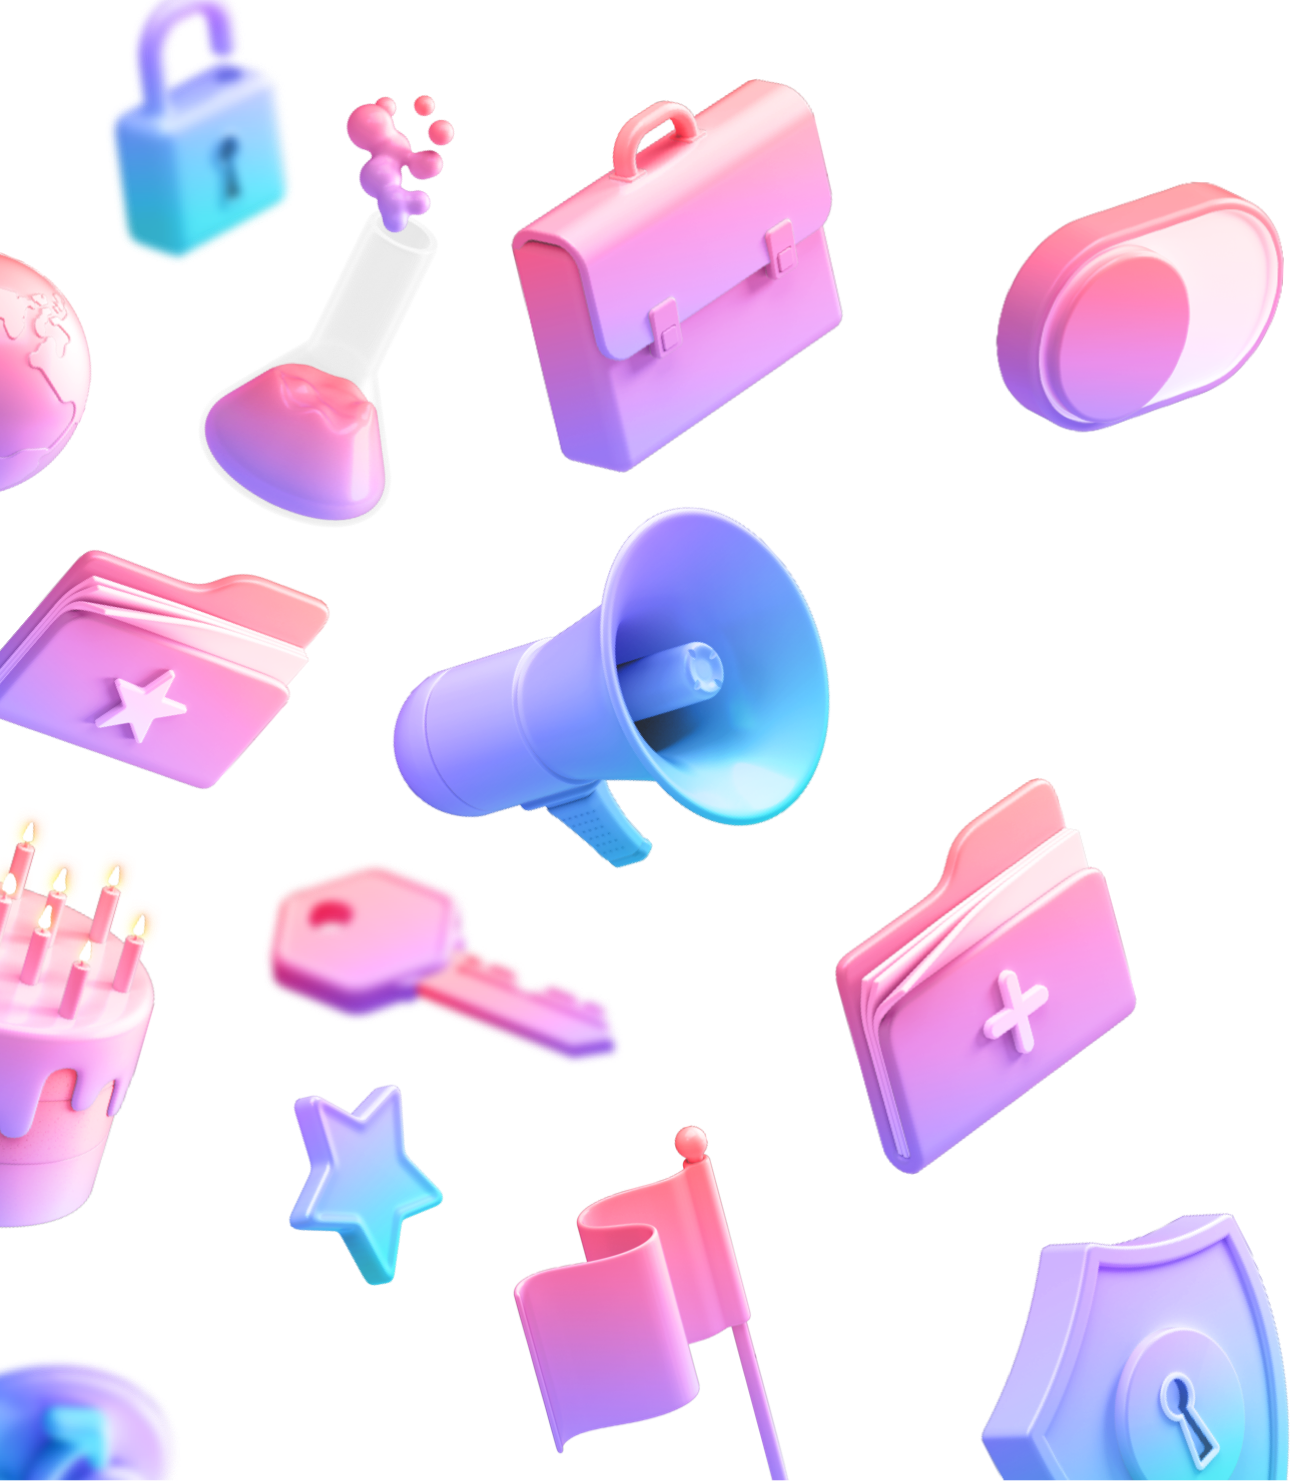
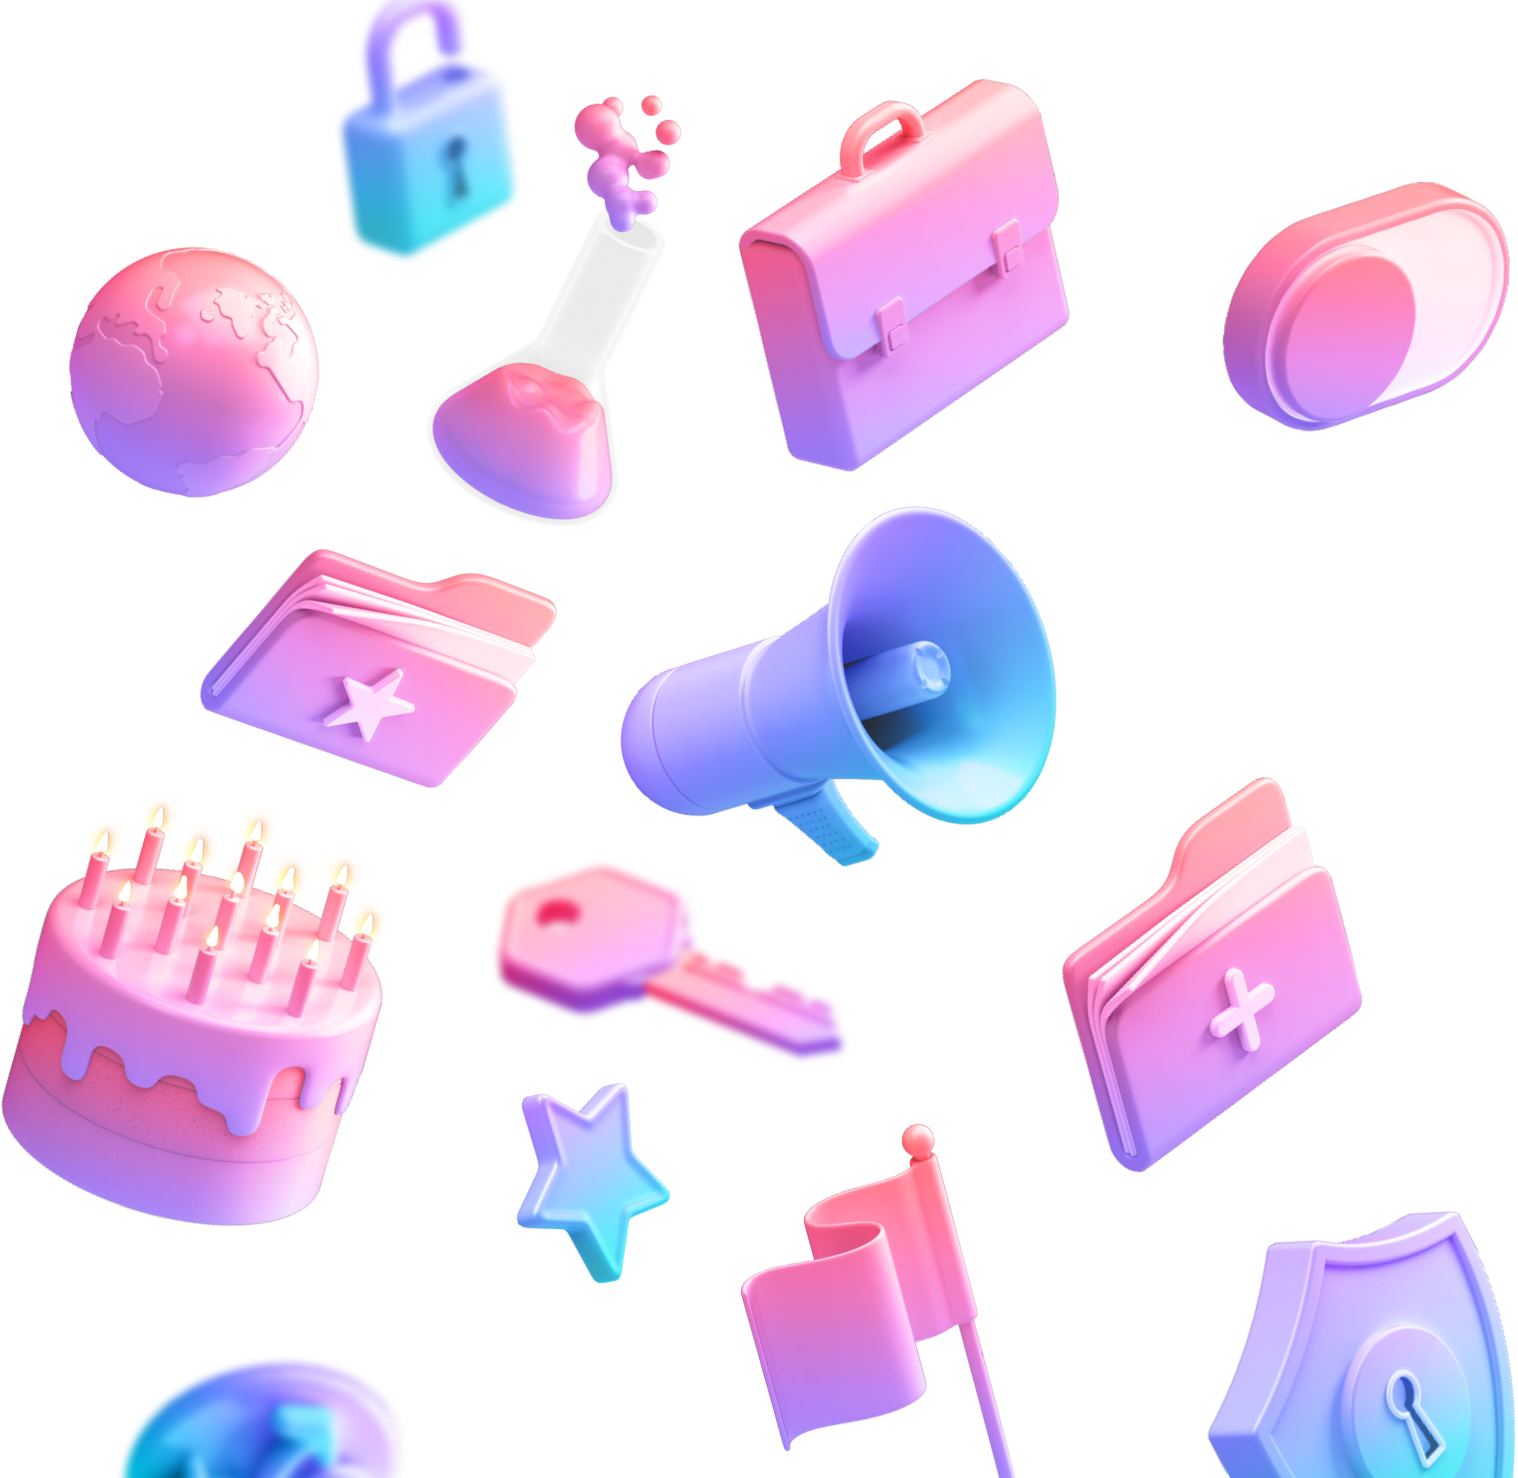
Visual improvements

diff --git a/components/drive/Container6.js b/components/drive/Container6.js
@@ -28,8 +28,8 @@ const Container6 = ({ id, descriptions }) => {
                     </p>
 
                     <Link href="/pricing">
-                        <a className={`flex flex-row w-auto items-center sm:my-6 lg:text-base lg:mt-12 lg:mb-16 xl:my-24`}>
-                            <p className={`${styles.margin} ${styles.link} sm:text-lg mr-2`}>Check out plans for teams</p>
+                        <a className={`flex flex-row w-auto items-center sm:my-6 lg:text-base lg:mt-10 lg:mb-12 xl:my-16`}>
+                            <p className={`${styles.margin} ${styles.link} sm:text-lg lg:text-base mr-2`}>Check out plans for teams</p>
                             <img src="/images/1440/Drive/Section 2/Section2 arrow.svg"/>
                         </a>
                     </Link>

diff --git a/components/photos/Container3.js b/components/photos/Container3.js
@@ -18,7 +18,7 @@ const Container3 = ({ id, descriptions }) => {
         <div className={background}>
             <div className={`${styles.container} max-w-1600 sm:flex-col sm:items-center`}>
                 <div className={`${styles.main} sm:items-center sm:p-0 lg:pl-32 lg:py-16`}>
-                    <h1 className={`${styles.title} leading-10 sm:text-4xl sm:text-center sm:w-84 sm:mt-16 lg:text-5xl lg:max-w-none lg:w-104`}>
+                    <h1 className={`${styles.title} leading-10 sm:text-4xl sm:text-center sm:w-84 sm:mt-16 lg:text-5xl lg:max-w-none lg:w-104 xl:leading-12`}>
                         {description[0].title}
                     </h1>
 

diff --git a/components/photos/Container1.js b/components/photos/Container1.js
@@ -37,8 +37,8 @@ const Container1 = ({ id, descriptions }) => {
                     <Image src="/images/1440/Photos/Section 1/2.png" width={68} height={65} />
                 </div>
 
-                <div className={`${styles.video} sm:hidden lg:w-20`}>
-                    <Image src="/images/1440/Photos/Section 1/6.png" width={110} height={131} />
+                <div className={`${styles.video} sm:hidden lg:w-16 xl:w-16`}>
+                    <Image src="/images/1440/Photos/Section 1/6.png" width={110} height={134} />
                 </div>
 
                 <div className={`${styles.lgcross} sm:hidden lg:w-72 lg:pl-48`}>

diff --git a/components/drive/Container3.js b/components/drive/Container3.js
@@ -18,7 +18,7 @@ const Container3 = ({ id, descriptions }) => {
         <div className={background}>
             <div className={`${styles.container} sm:justify-center sm:flex-col-reverse max-w-1600`}>
                 <div className={`${styles.image} sm:object-cover sm:w-auto lg:w-5/12`}>
-                    <Image src="/images/1440/Drive/Section 3/icons graphic.png" width={646} height={742} />
+                    <Image src="/images/1440/Drive/Section 3/icons graphic.png" width={742} height={722} />
                 </div>
 
                 <div className={`${styles.main} sm:items-center lg:pl-16`}>

diff --git a/components/photos/Container4.js b/components/photos/Container4.js
@@ -22,7 +22,7 @@ const Container4 = ({ id, descriptions }) => {
                 </div>
 
                 <div className={`${styles.main} sm:items-center`}>
-                    <h1 className={`${styles.title} leading-10 sm:text-4xl sm:w-84 sm:text-center leading-10 lg:text-5xl lg:max-w-none lg:w-104`}>
+                    <h1 className={`${styles.title} leading-10 sm:text-4xl sm:w-84 sm:text-center leading-10 lg:text-5xl lg:max-w-none lg:w-104 xl:leading-12`}>
                         {description[0].title}
                     </h1>
 

diff --git a/components/cards/TokenSmallCard.module.css b/components/cards/TokenSmallCard.module.css
@@ -12,12 +12,9 @@
 }
 
 .title {
-    width: 210px;
-    font-family: "averta-bold";
+    width: 230px;
+    font-family: "averta-semibold";
     font-size: 47.5px;
-    font-weight: bold;
-    font-stretch: normal;
-    font-style: normal;
     line-height: 0.88;
     letter-spacing: -0.71px;
     color: #2a2c35;
@@ -27,7 +24,6 @@
     font-family: "averta-light";
     width: 210px;
     font-size: 47.5px;
-    font-weight: 300;
     line-height: 0.88;
     letter-spacing: -0.68px;
     color: #2a2c35;

diff --git a/components/photos/Container2.js b/components/photos/Container2.js
@@ -18,7 +18,7 @@ const Container2 = ({ id, descriptions }) => {
     return ( 
         <div className={background}>
             <div className={`${styles.main_container} sm:py-16 lg:pb-16`}>
-                <h1 className={`${styles.title} leading-9 sm:text-4xl sm:w-80 lg:text-5xl`}>
+                <h1 className={`${styles.title} leading-9 sm:text-4xl sm:w-80 lg:text-5xl xl:leading-12`}>
                     {description[0].title}
                 </h1>
 

diff --git a/components/layout/Footer.js b/components/layout/Footer.js
@@ -7,7 +7,7 @@ import { Accordion, Card, Button } from 'react-bootstrap'
 const Footer = () => {
     return ( 
         <footer>
-            <div className={`${styles.first_half} sm:p-0 sm:py-20`}>
+            <div className={`${styles.first_half} sm:p-0 sm:py-20 lg:h-84`}>
                 <div className={styles.title_container}>
                     <h1 className={`${styles.title} sm:text-4xl lg:text-4xl`}>A family of privacy focused services.</h1>
 

diff --git a/components/token/Container1.js b/components/token/Container1.js
@@ -15,7 +15,7 @@ const Container1 = ({ id, descriptions }) => {
 
     return ( 
         <div className={background}>
-            <h1 className={`${styles.title} sm:text-4xl sm:w-80 sm:mb-8 lg:text-8xl lg:w-8/12 lg:mb-6 xl:w-10/12`}>
+            <h1 className={`${styles.title} sm:text-4xl sm:w-80 sm:mb-8 lg:text-8xl lg:w-8/12 lg:mb-6`}>
                 {description[0].title}
             </h1>
 

diff --git a/components/token/Container4.js b/components/token/Container4.js
@@ -55,7 +55,7 @@ const Container4 = ({ id, descriptions }) => {
                {formattedText(description[0].title, description[0].colored)}
            </h1>
 
-           <p className={`${styles.subtitle} sm:text-xl sm:w-80 lg:text-xl`}>
+           <p className={`${styles.subtitle} sm:text-xl sm:w-80 lg:text-xl xl:mt-4`}>
                {description[0].subtitle}
            </p>
 

diff --git a/components/layout/Footer.module.css b/components/layout/Footer.module.css
@@ -1,5 +1,8 @@
 .first_half {
     display: flex;
+    height: 440px;
+    align-items: center;
+    justify-content: center;
     flex-direction: column;
     background-image: linear-gradient(51deg, #4a66f7 2%, #7a5bfe 87%);
 

diff --git a/components/token/Container1.module.css b/components/token/Container1.module.css
@@ -14,6 +14,7 @@
 }
 
 .title {
+    max-width: 1000px;
     width: 845px;
     width: 100%;
     font-size: 114px;
